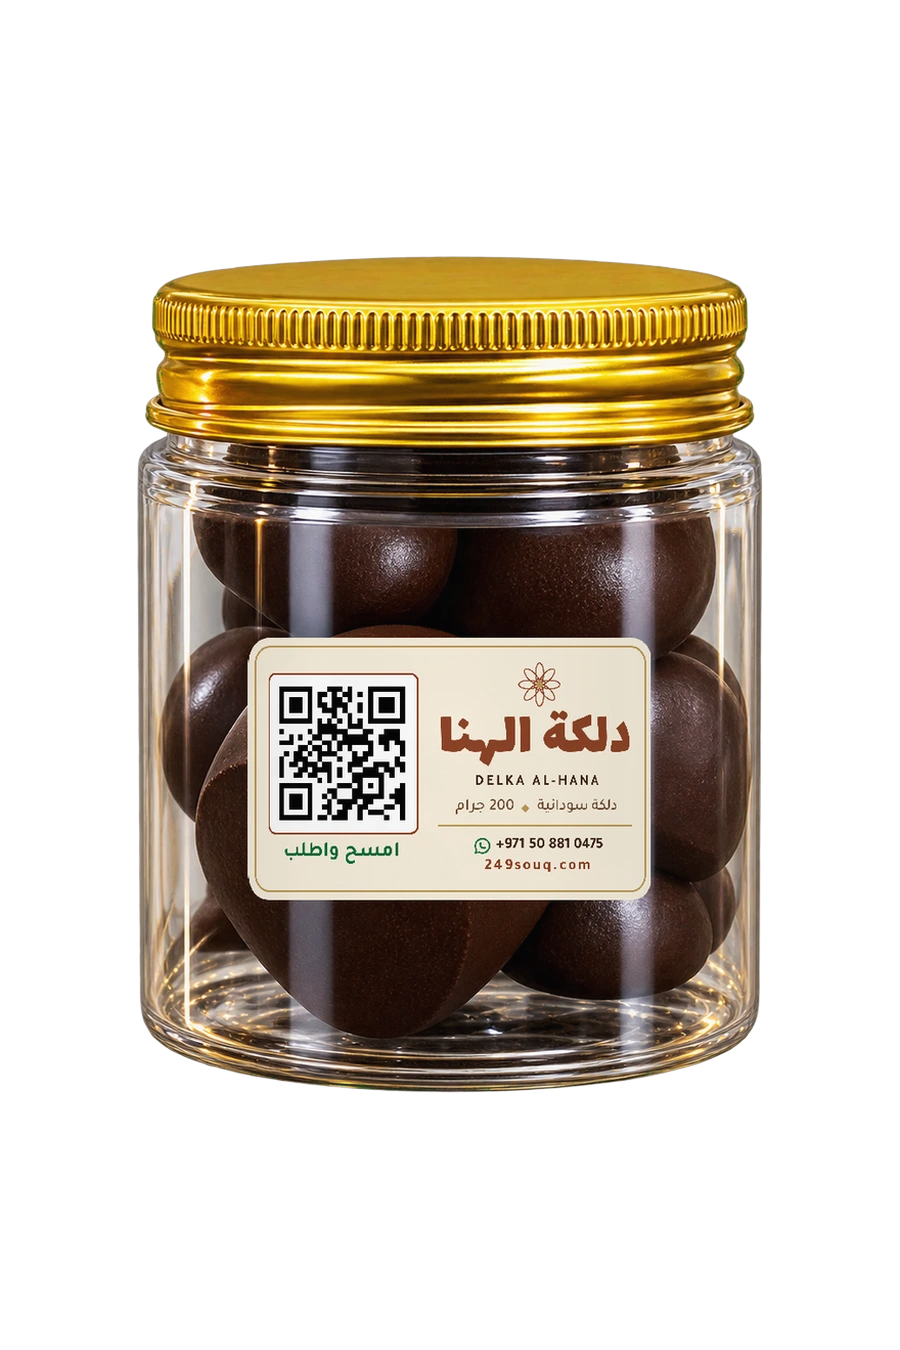
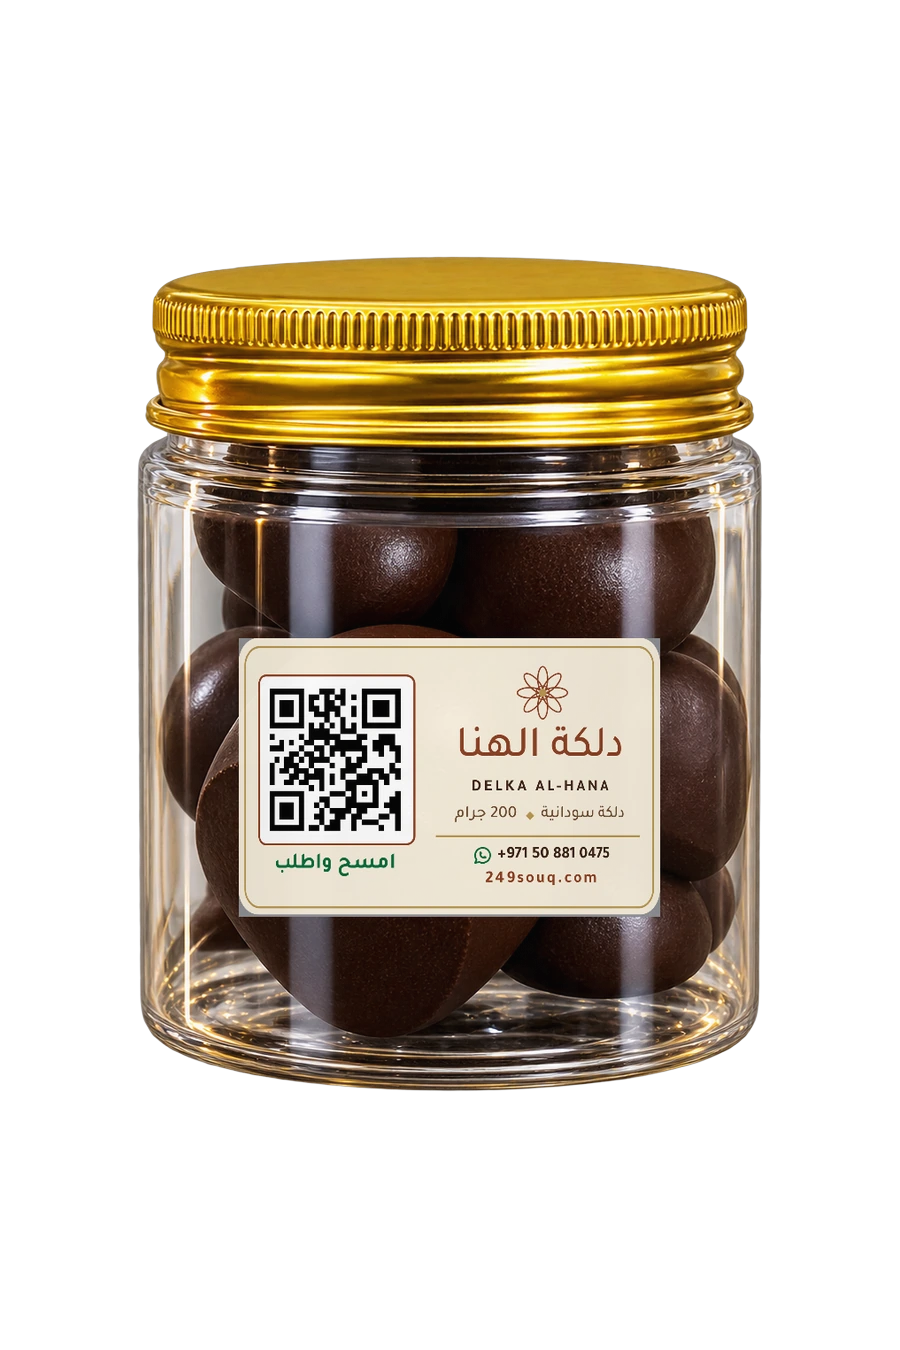
Dilka: new label on website images, swipe on main product photo
Claude-Session: https://claude.ai/code/session_01SuiLfGdhdGsgKzKcMXGYRk

diff --git a/delka.html b/delka.html
@@ -12,10 +12,10 @@
 <meta property="og:title" content="دلكة الهنا — دلكة سودانية 200 غرام | 249Souq"/>
 <meta property="og:description" content="دلكة سودانية تقليدية 200 غرام. اطلبها مع بخورك. توصيل داخل الإمارات."/>
 <meta property="og:url" content="https://249souq.com/delka"/>
-<meta property="og:image" content="https://249souq.com/img/dilka-jar.webp"/>
+<meta property="og:image" content="https://249souq.com/img/dilka-jar.webp?v=2"/>
 <meta name="twitter:card" content="summary_large_image"/>
 <script type="application/ld+json">
-{"@context":"https://schema.org","@type":"Product","name":"دلكة الهنا","alternateName":"Dilka Al Hana — Sudanese Delka 200 g","description":"دلكة سودانية تقليدية للعناية بالجسم، 200 غرام. Traditional Sudanese delka body scrub, 200 g. For external use only.","image":["https://249souq.com/img/dilka-jar.webp"],"brand":{"@type":"Brand","name":"دلكة الهنا"},"weight":{"@type":"QuantitativeValue","value":200,"unitCode":"GRM"},"offers":{"@type":"Offer","url":"https://249souq.com/delka","priceCurrency":"AED","price":"35","availability":"https://schema.org/InStock","itemCondition":"https://schema.org/NewCondition","areaServed":"AE"}}
+{"@context":"https://schema.org","@type":"Product","name":"دلكة الهنا","alternateName":"Dilka Al Hana — Sudanese Delka 200 g","description":"دلكة سودانية تقليدية للعناية بالجسم، 200 غرام. Traditional Sudanese delka body scrub, 200 g. For external use only.","image":["https://249souq.com/img/dilka-jar.webp?v=2"],"brand":{"@type":"Brand","name":"دلكة الهنا"},"weight":{"@type":"QuantitativeValue","value":200,"unitCode":"GRM"},"offers":{"@type":"Offer","url":"https://249souq.com/delka","priceCurrency":"AED","price":"35","availability":"https://schema.org/InStock","itemCondition":"https://schema.org/NewCondition","areaServed":"AE"}}
 </script>
 <link rel="icon" href="favicon.ico" sizes="any"/>
 <link rel="icon" type="image/png" sizes="16x16" href="favicon-16x16.png"/>
@@ -208,11 +208,11 @@
 <section id="delka" style="background:#fff;padding:3rem 0;border-bottom:1px solid rgba(26,18,8,0.06)">
   <div class="product-wrap">
     <div class="gallery">
-      <div class="main-img"><span class="weight-badge">200 غرام</span><img id="mainImg" src="img/dilka-jar.webp" alt="دلكة الهنا — دلكة سودانية 200 غرام" width="900" height="1350"/></div>
+      <div class="main-img"><span class="weight-badge">200 غرام</span><img id="mainImg" src="img/dilka-jar.webp?v=2" alt="دلكة الهنا — دلكة سودانية 200 غرام" width="900" height="1350"/></div>
       <div class="thumb-row">
-        <div class="thumb active" onclick="setImg('img/dilka-jar.webp',this)"><img src="img/dilka-jar.webp" alt="دلكة الهنا — دلكة سودانية 200 غرام"/></div>
-        <div class="thumb" onclick="setImg('img/dilka-poster.jpg',this)"><img src="img/dilka-poster.jpg" alt="دلكة الهنا — بوستر"/></div>
-        <div class="thumb" onclick="setImg('img/dilka-howto.jpg',this)"><img src="img/dilka-howto.jpg" alt="دلكة الهنا — طريقة الاستعمال"/></div>
+        <div class="thumb active" onclick="setImg('img/dilka-jar.webp?v=2',this)"><img src="img/dilka-jar.webp?v=2" alt="دلكة الهنا — دلكة سودانية 200 غرام"/></div>
+        <div class="thumb" onclick="setImg('img/dilka-poster.jpg?v=2',this)"><img src="img/dilka-poster.jpg?v=2" alt="دلكة الهنا — بوستر"/></div>
+        <div class="thumb" onclick="setImg('img/dilka-howto.jpg?v=2',this)"><img src="img/dilka-howto.jpg?v=2" alt="دلكة الهنا — طريقة الاستعمال"/></div>
       </div>
     </div>
     <div>
@@ -404,6 +404,22 @@ function setImg(src,el){document.getElementById('mainImg').src=src;document.quer
     row.scrollTo({left: 60, behavior: 'smooth'});
     setTimeout(function(){ row.scrollTo({left: 0, behavior: 'smooth'}); }, 500);
   }, 900);
+})();
+</script>
+<script>
+(function(){
+  var box=document.querySelector('.main-img'); if(!box) return;
+  var thumbs=[].slice.call(document.querySelectorAll('.thumb-row .thumb'));
+  function cur(){for(var i=0;i<thumbs.length;i++){if(thumbs[i].classList.contains('active'))return i}return 0}
+  function go(n){ if(n<0||n>=thumbs.length) return; thumbs[n].click(); thumbs[n].scrollIntoView({behavior:'smooth',block:'nearest',inline:'nearest'}); }
+  var x0=null,y0=null;
+  box.addEventListener('touchstart',function(e){x0=e.touches[0].clientX;y0=e.touches[0].clientY},{passive:true});
+  box.addEventListener('touchend',function(e){
+    if(x0===null) return;
+    var dx=e.changedTouches[0].clientX-x0, dy=e.changedTouches[0].clientY-y0; x0=null;
+    if(Math.abs(dx)<40||Math.abs(dx)<Math.abs(dy)) return;
+    go(cur()+(dx<0?1:-1));
+  });
 })();
 </script>
 <script src="lead.js" defer></script>

diff --git a/products.html b/products.html
@@ -507,6 +507,22 @@ function setImg(src,el){document.getElementById('mainImg').src=src;document.quer
   }, 900);
 })();
 </script>
+<script>
+(function(){
+  var box=document.querySelector('.main-img'); if(!box) return;
+  var thumbs=[].slice.call(document.querySelectorAll('.thumb-row .thumb'));
+  function cur(){for(var i=0;i<thumbs.length;i++){if(thumbs[i].classList.contains('active'))return i}return 0}
+  function go(n){ if(n<0||n>=thumbs.length) return; thumbs[n].click(); thumbs[n].scrollIntoView({behavior:'smooth',block:'nearest',inline:'nearest'}); }
+  var x0=null,y0=null;
+  box.addEventListener('touchstart',function(e){x0=e.touches[0].clientX;y0=e.touches[0].clientY},{passive:true});
+  box.addEventListener('touchend',function(e){
+    if(x0===null) return;
+    var dx=e.changedTouches[0].clientX-x0, dy=e.changedTouches[0].clientY-y0; x0=null;
+    if(Math.abs(dx)<40||Math.abs(dx)<Math.abs(dy)) return;
+    go(cur()+(dx<0?1:-1));
+  });
+})();
+</script>
 <script src="lead.js" defer></script>
 </body>
 </html>
